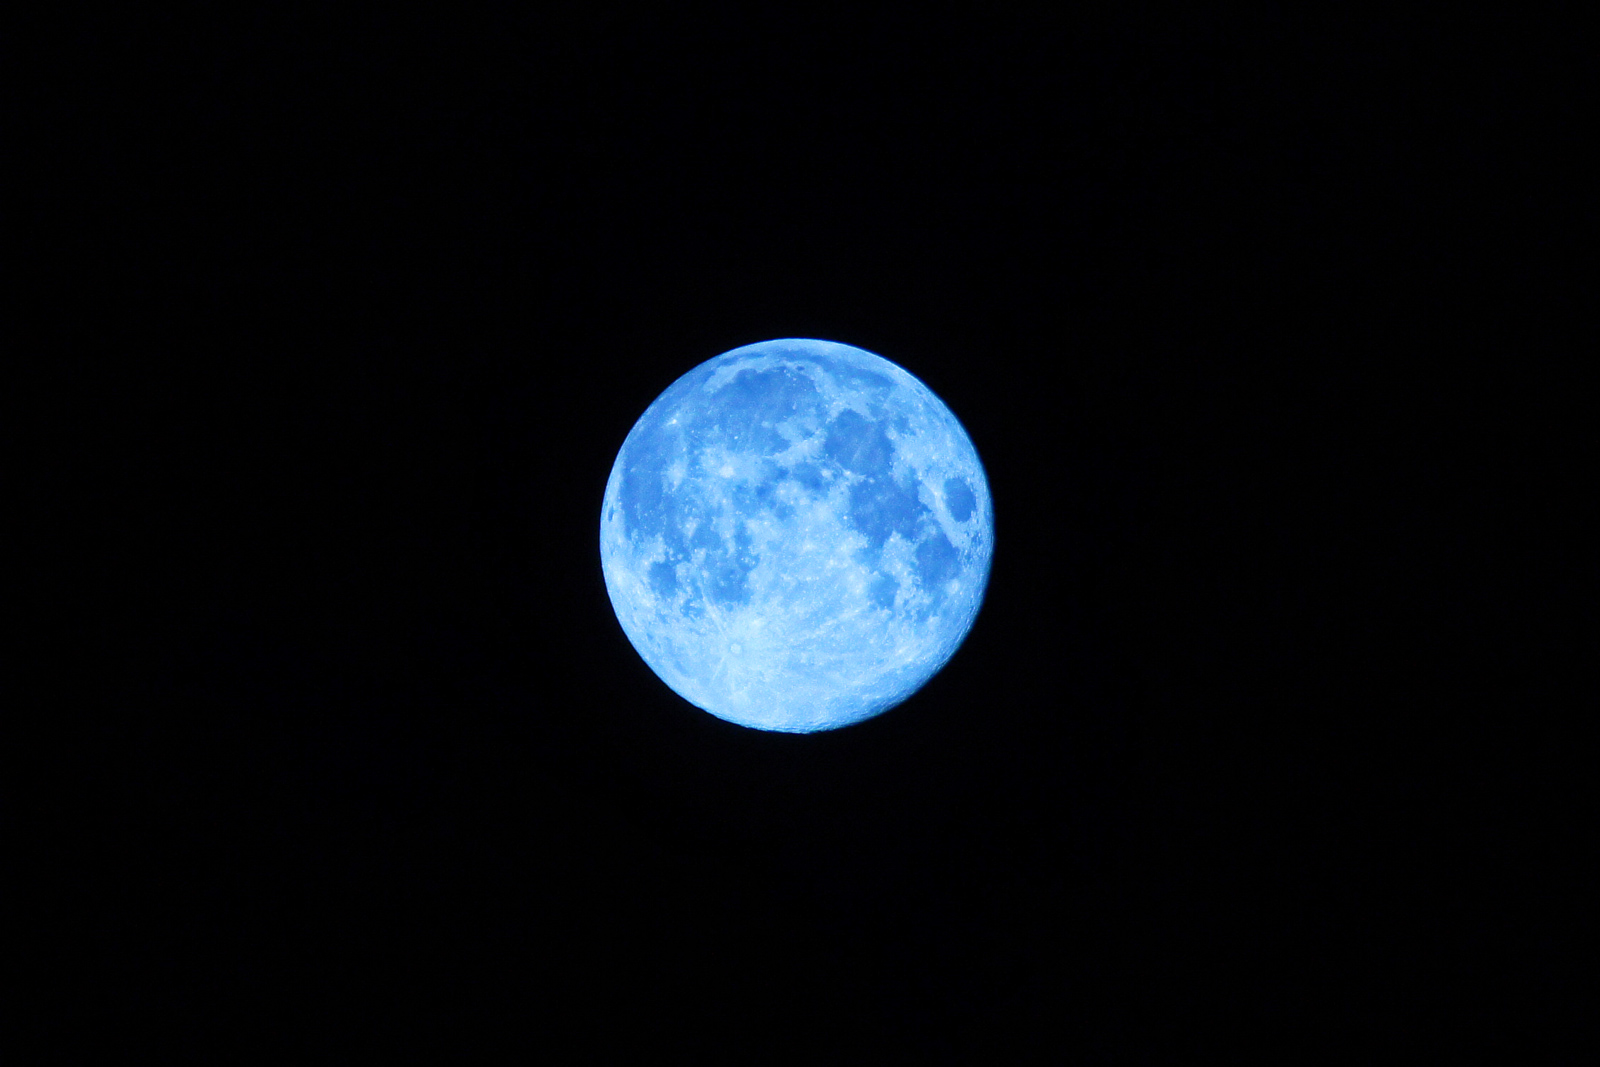
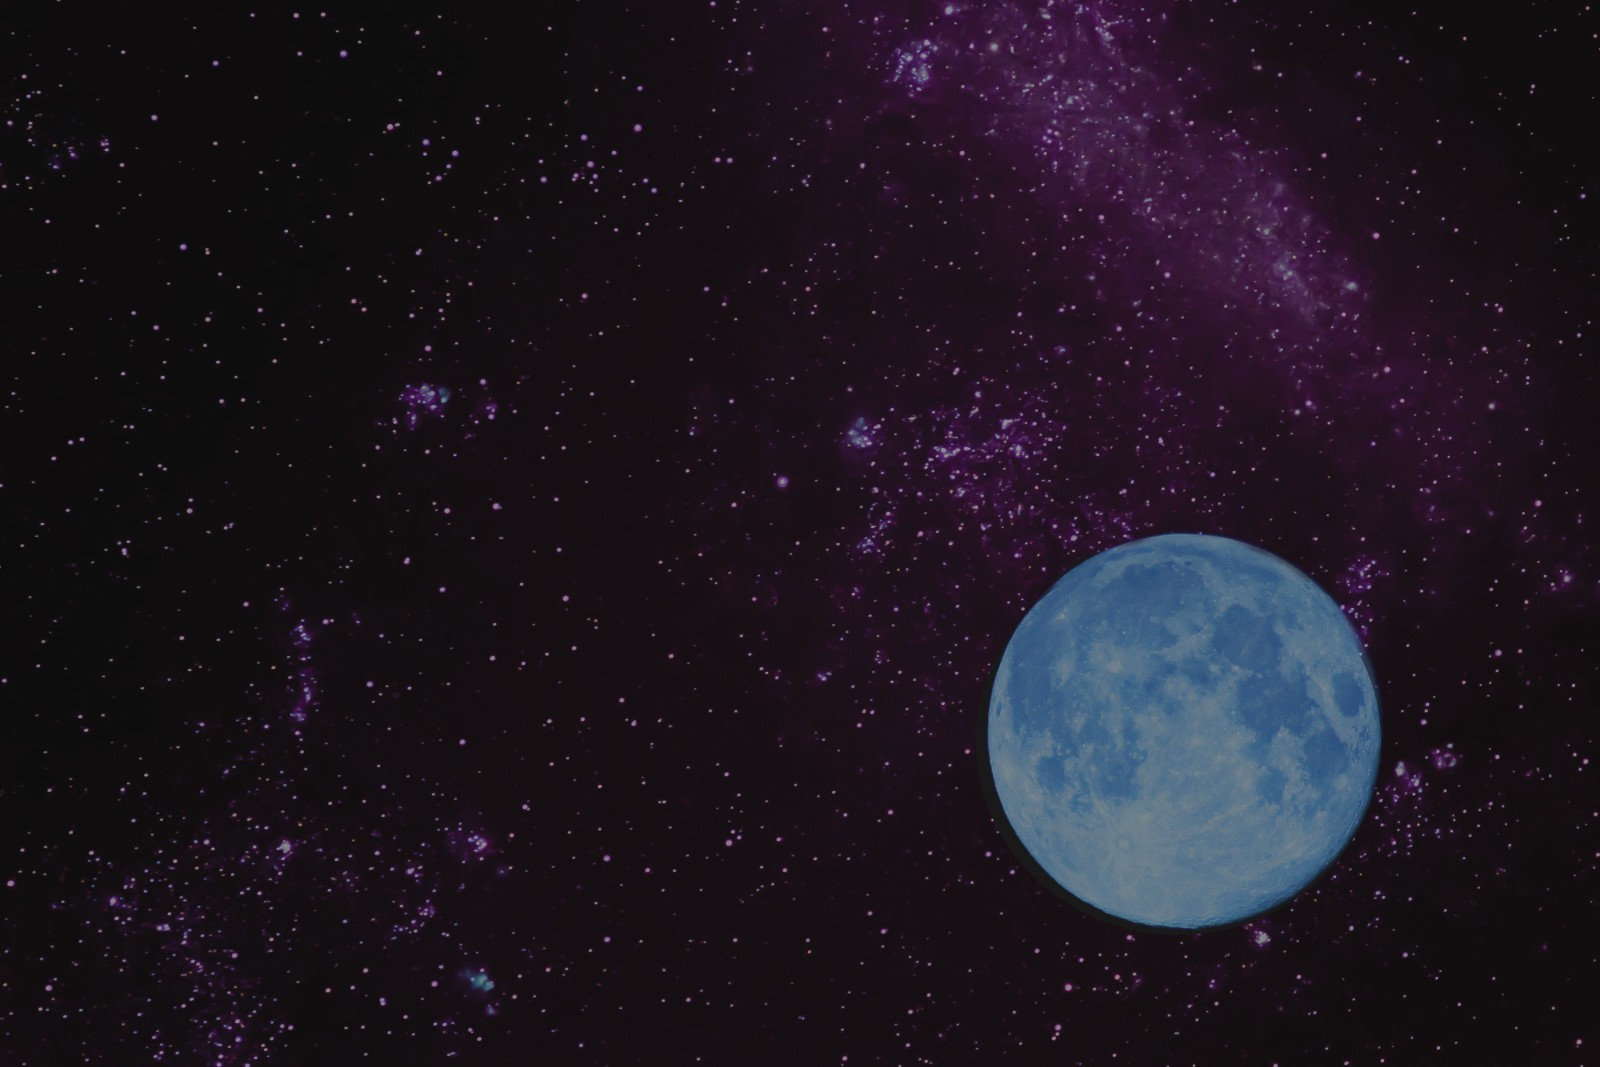
Added interest page

diff --git a/interests.html b/interests.html
@@ -23,7 +23,7 @@
                 transition: 'slideDown2',
                 transitionDuration: 2000,
                 slides: [
-                    { src: 'assets/images/space1.jpg' }
+                    { src: 'assets/images/space2.jpg' }
                 ]
             });
             
@@ -81,7 +81,22 @@
       </header>
     <section class="container-fluid page-interests">
         <div class="container ">
-            <h2 class="heading">Interests</h2>
+<div class="row">
+<div class="col-sm-4">
+  <div id="photo-2">
+      <img class="img-fluid" src="assets/images/interest1.jpg" alt="Card image cap">
+        <img class="img-fluid" src="assets/images/interest2.jpg" alt="Card image cap">
+        <img class="img-fluid" src="assets/images/interest3.jpg" alt="Card image cap">
+
+        <img class="img-fluid" src="assets/images/profile-image3.jpg" alt="Card image cap">
+        <img class="img-fluid" src="assets/images/profile-image4.jpg" alt="Card image cap"> 
+
+  </div>
+
+    </div>
+    <div class="col-sm-8">
+
+        <h2 class="heading">Interests</h2>
     <fieldset>
         <legend>Piano</legend>
         <p>I play piano since age of 6. I've started in Classical music, now I am playing Jazz.</p>
@@ -103,6 +118,11 @@
         <p>I am a huge fan of Pet Shop Boys and Erasure.</p>
  
     </fieldset>
+
+    </div>
+</div>
+
+    
     </div>
     </section>
     <footer class="container-fluid">

diff --git a/assets/css/style.css b/assets/css/style.css
@@ -273,6 +273,22 @@ header{background:#fff;}
     color:#fff;
 }
 
+#photo-2{
+    clear:both;
+    line-height:0;
+    column-count:2;
+    column-gap:0;
+  }
+  #photo img{
+    width:100%;
+  }
+
+    @media (max-width: 400px) {
+    .btn.filter {
+    padding-left: 1.1rem;
+    padding-right: 1.1rem;
+    }
+    }
 /*--------------------------------------Footer */
 .footer {
 

diff --git a/index.html b/index.html
@@ -99,7 +99,7 @@
       </div>
     </div>
    
-    
+    <h2>Areas covered</h2>
     <div class="home-row">
     <div class="row">
     <div class="col-sm-2"><img src="assets/images/skill-javascript.png" alt=""></div>
